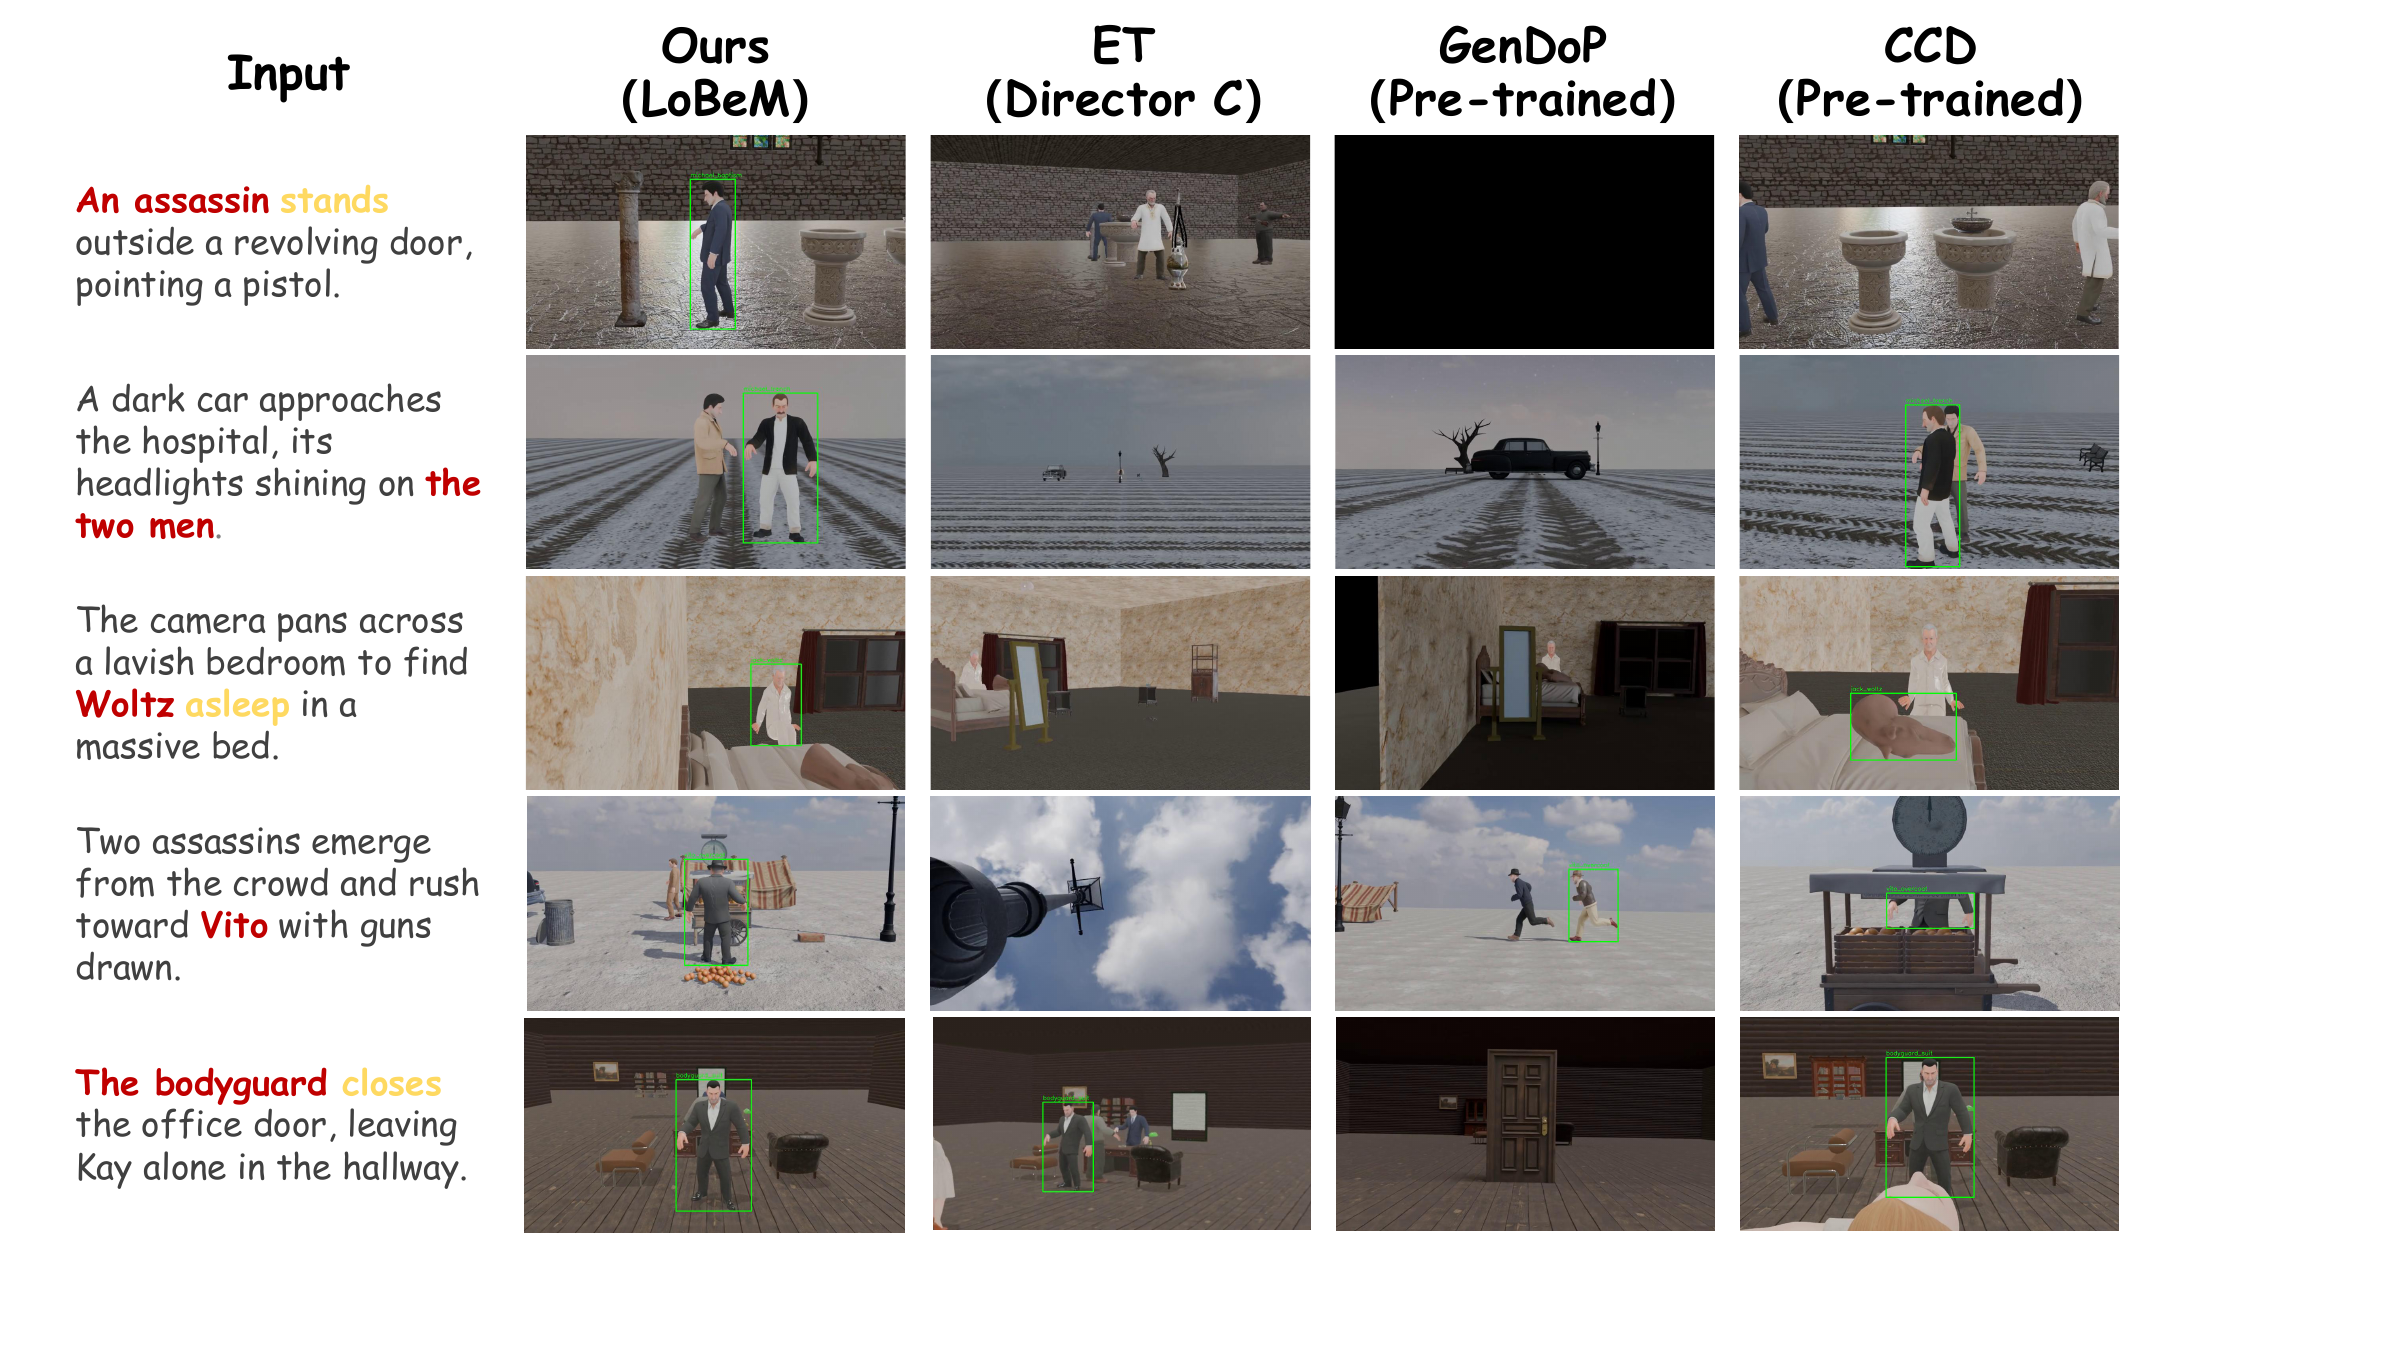
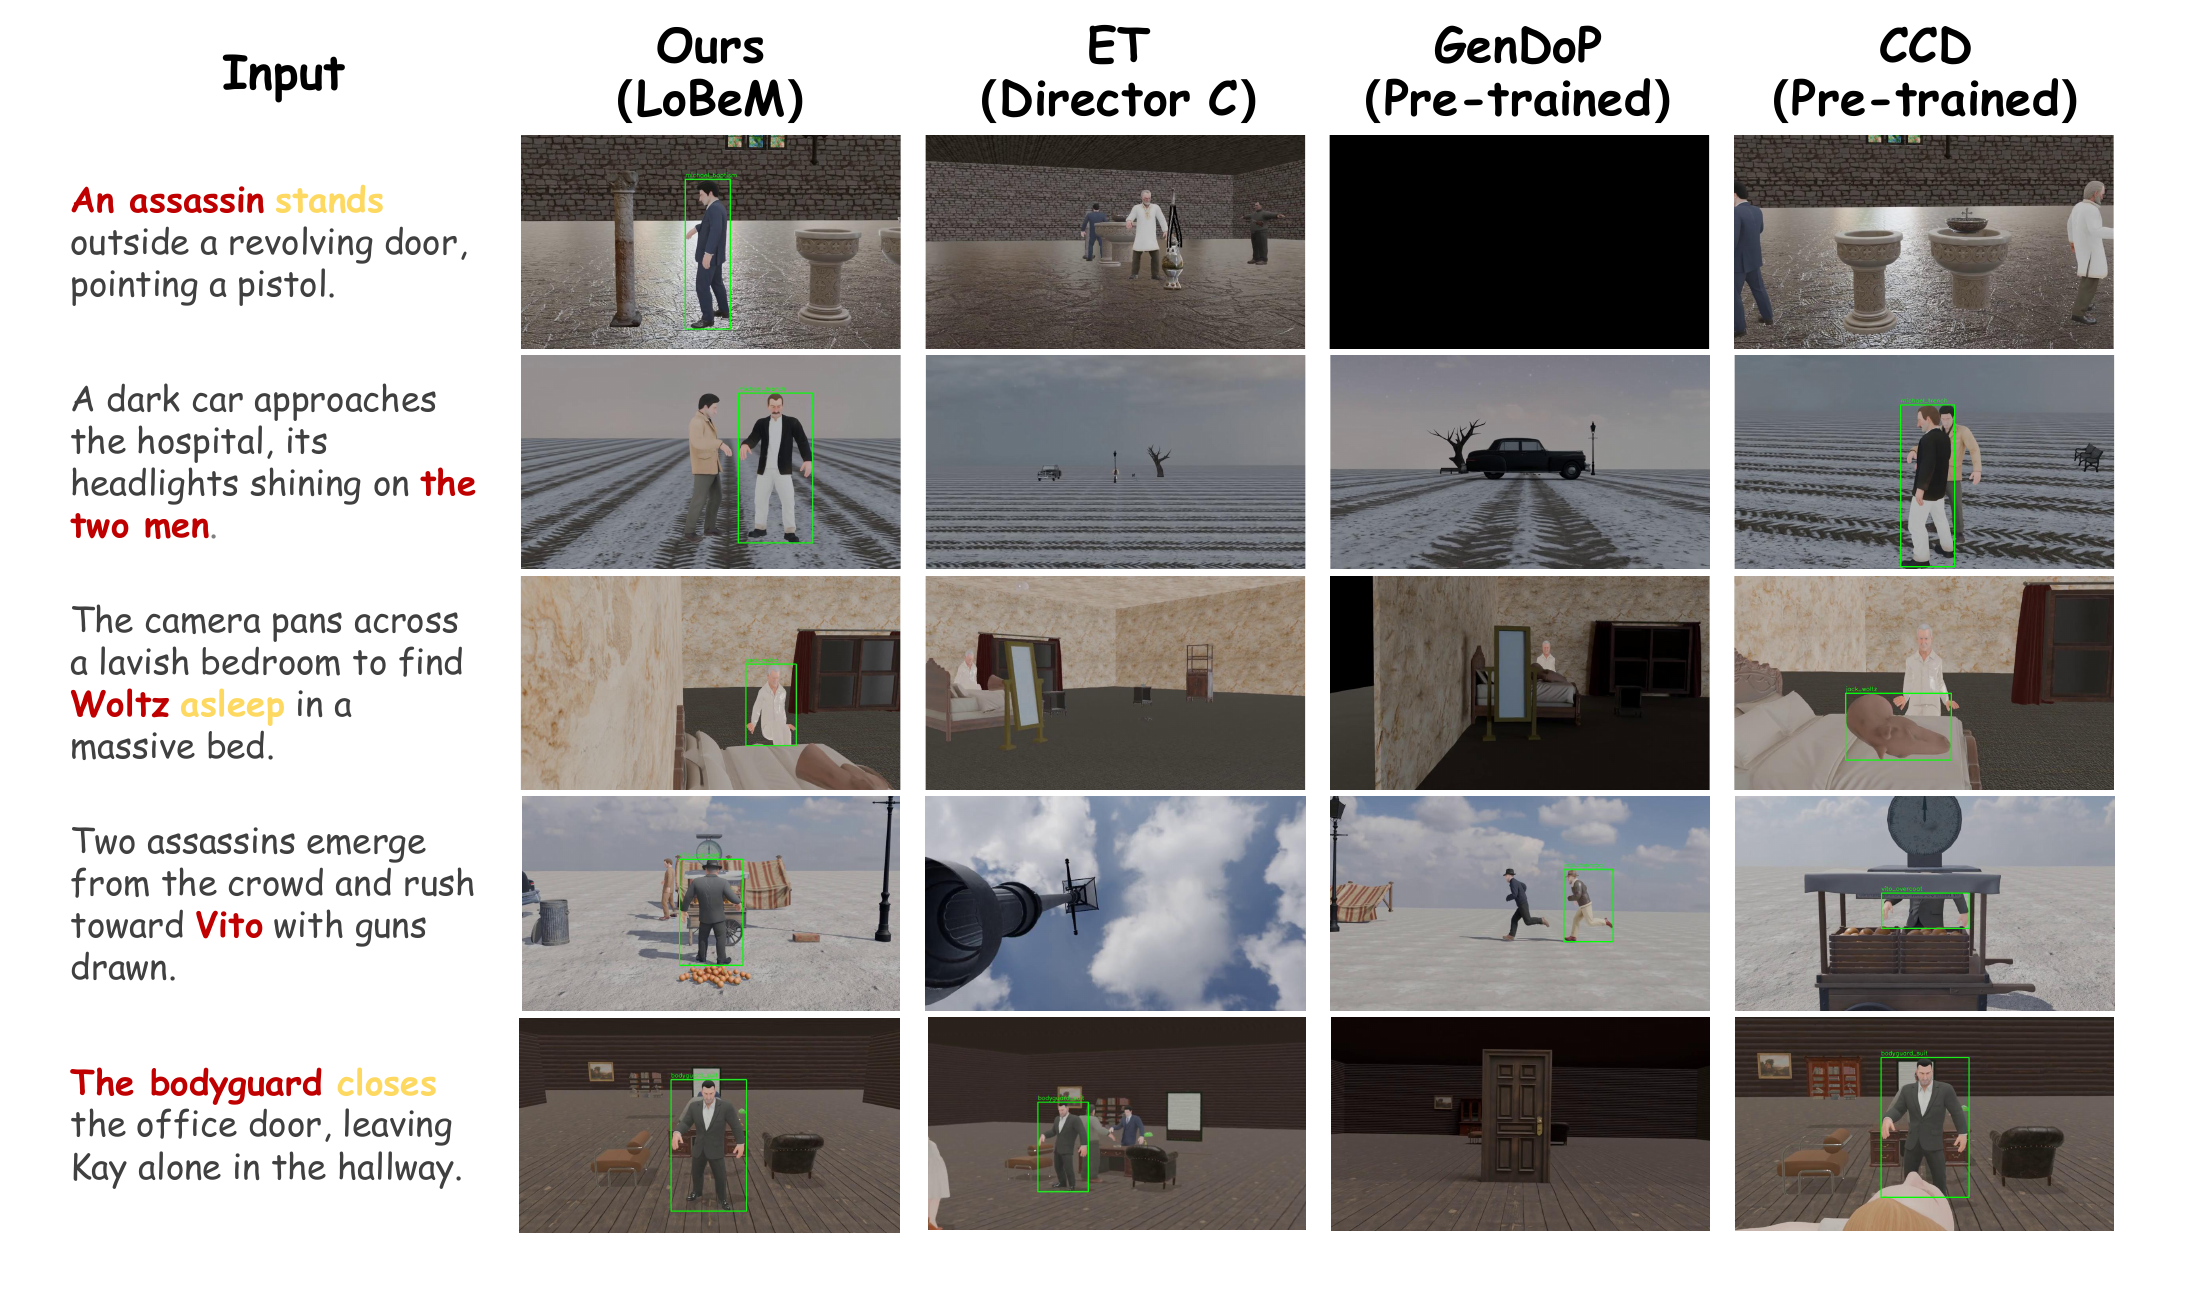
Polish project page figures and buttons

diff --git a/docs/index.html b/docs/index.html
@@ -158,15 +158,15 @@
                     </a>
                   </span>
                   <span class="link-block">
-                    <a href="#dataset" class="external-link button is-normal is-rounded is-dark">
-                      <span class="icon"><i class="fas fa-database"></i></span>
-                      <span>Dataset</span>
+                    <a class="external-link button is-normal is-rounded is-dark is-disabled" aria-disabled="true" tabindex="-1" title="arXiv coming soon">
+                      <span class="icon"><i class="fas fa-file-alt"></i></span>
+                      <span>arXiv</span>
                     </a>
                   </span>
                   <span class="link-block">
-                    <a class="external-link button is-normal is-rounded is-dark is-disabled" aria-disabled="true" title="arXiv coming soon">
-                      <span class="icon"><i class="ai ai-arxiv"></i></span>
-                      <span>arXiv</span>
+                    <a href="#dataset" class="external-link button is-normal is-rounded is-dark">
+                      <span class="icon"><i class="fas fa-database"></i></span>
+                      <span>Dataset</span>
                     </a>
                   </span>
                 </div>
@@ -199,9 +199,11 @@
           <div class="column is-full">
             <h2 class="title is-3">Method Overview</h2>
             <img class="result-image" src="static/images/method_overview.png" alt="Method overview figure" loading="lazy">
-            <h2 class="subtitle has-text-centered mt-4">
-              Look-Before-Move first decides what should be observed under narrative intent, then grounds the selected visual attention into feasible camera motion.
-            </h2>
+            <div class="content has-text-justified mt-4">
+              <p>
+                Look-Before-Move separates observation specification from motion execution. It first builds a Semantic Observation Contract from narrative intent, then uses Monte Carlo Viewpoint Search to identify viewpoints that satisfy semantic and geometric constraints, and finally applies Semantic Trajectory Grounding to connect selected viewpoints into smooth, collision-aware camera motion.
+              </p>
+            </div>
             <p class="has-text-centered mt-3">
               <a href="static/pdfs/method_overview.pdf" target="_blank">Open the original PDF</a>
             </p>